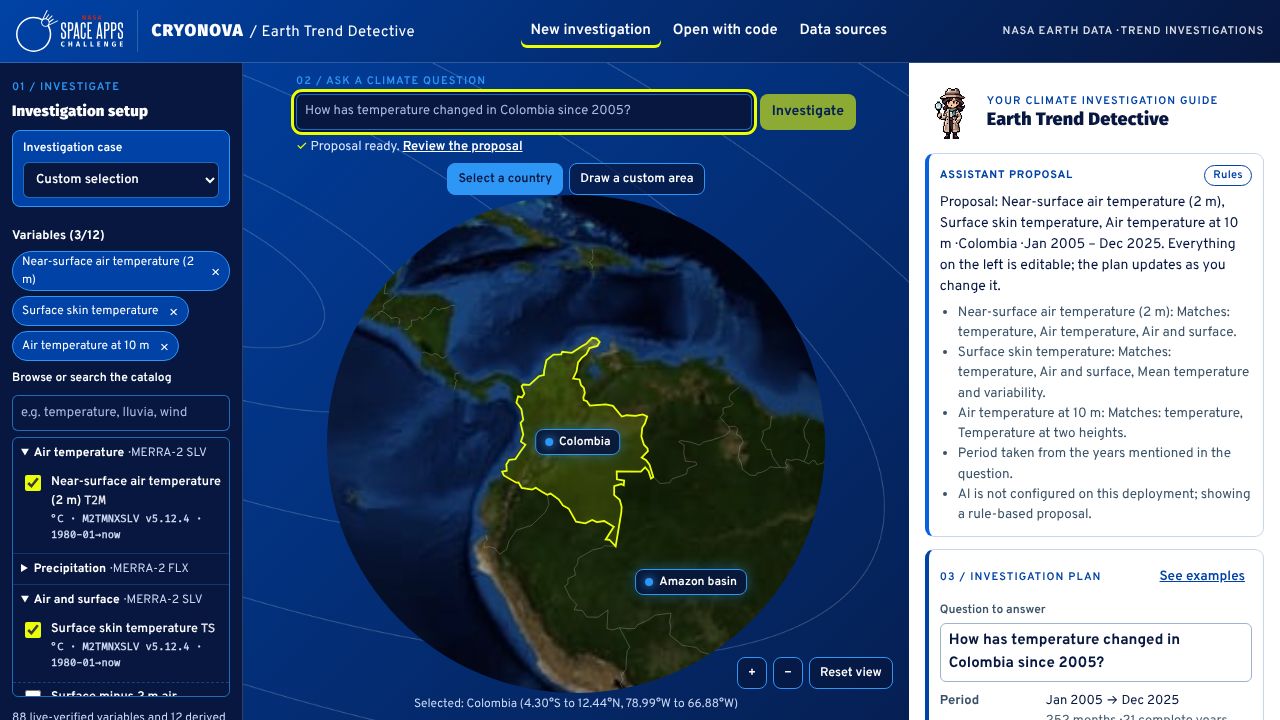
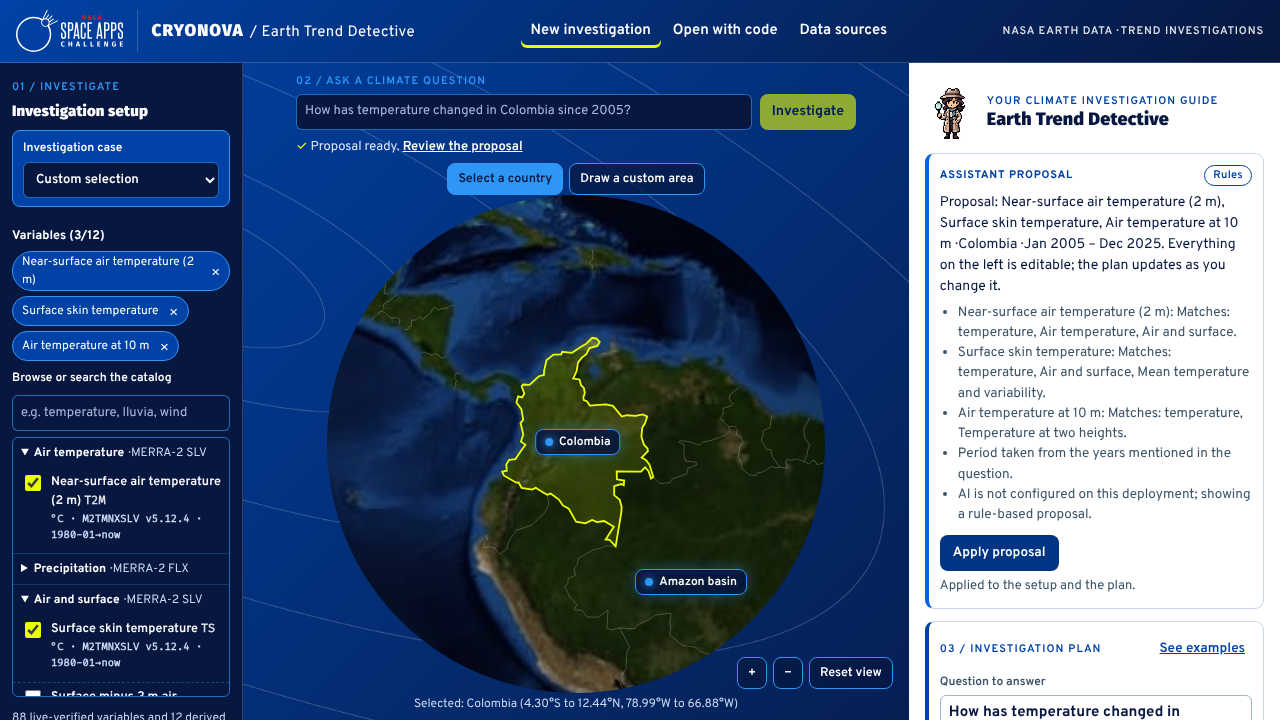
test(e2e): proposals apply only on request, user dates are kept
The assistant tests press "Apply proposal" before checking the setup.
The card test checks that nothing changes before applying (no location,
no plan) and that applying fills it. A new test loads the example
(Jan 2005 - Dec 2024), asks "What about since 2015?" and checks the
period stays until the proposal is applied, then becomes Jan 2015.

Claude-Session: https://claude.ai/code/session_01MdmBAKE8M2SCmHZVLXGeNV

Changed region(s): [[0.7188, 0.7333, 0.9688, 1.0], [0.2188, 0.1222, 0.5938, 0.2139], [0.9062, 0.7944, 0.9688, 0.825]]

diff --git a/tests/e2e/workspace.spec.ts b/tests/e2e/workspace.spec.ts
@@ -114,6 +114,7 @@ test("the assistant answers in Spanish and fills the setup as an editable propos
   await page.getByTestId("assistant-input").fill("¿Ha cambiado la precipitación en Perú desde 2001?");
   await page.getByTestId("investigate-button").click();
   await expect(page.getByTestId("assistant-proposal")).toContainText(/Propuesta:/, { timeout: 60_000 });
+  await page.getByTestId("apply-proposal").click();
   await expect(page.getByText("Selected: Peru", { exact: false })).toBeVisible();
   await expect(page.getByTestId("plan")).toBeVisible();
   await expect(page.getByTestId("plan-period")).toContainText("Jan 2001");
@@ -124,7 +125,26 @@ test("old links redirect: /investigate?q= asks the assistant on the workspace", 
   await page.goto(`/investigate?q=${encodeURIComponent("Is it getting warmer in Chile since 2001?")}`);
   await expect(page).toHaveURL(/\/\?q=/);
   await expect(page.getByTestId("assistant-proposal")).toContainText(/Proposal:/, { timeout: 60_000 });
+  await page.getByTestId("apply-proposal").click();
   await expect(page.getByText("Selected: Chile", { exact: false })).toBeVisible();
+});
+
+test("a proposal never overwrites the dates in the setup unless it is applied", async ({ page }) => {
+  await page.goto("/");
+  await page.getByTestId("use-example").click();
+  const period = page.getByTestId("plan-period");
+  await expect(period).toContainText("Jan 2005");
+
+  await page.getByTestId("assistant-input").fill("What about since 2015?");
+  await page.getByTestId("assistant-input").press("Enter");
+  await expect(page.getByTestId("assistant-proposal")).toContainText("Jan 2015", { timeout: 60_000 });
+  // Shown, not applied: the period in the setup and the plan stays as it was.
+  await expect(period).toContainText("Jan 2005");
+  await expect(period).not.toContainText("Jan 2015");
+
+  await page.getByTestId("apply-proposal").click();
+  await expect(period).toContainText("Jan 2015");
+  await expect(page.getByTestId("plan-location")).toContainText("Colombia");
 });
 
 test("the proposal is a readable card in the right panel; the center keeps the question and the globe", async ({ page }) => {
@@ -146,6 +166,14 @@ test("the proposal is a readable card in the right panel; the center keeps the q
   await expect(center).not.toContainText("Proposal:");
   await expect(center.getByRole("link", { name: "Review the proposal" })).toHaveAttribute("href", "#assistant-proposal");
   await expect(page.getByTestId("assistant-input")).toHaveValue("");
+
+  // Nothing changes until the proposal is applied.
+  await expect(page.getByTestId("proposal-status")).toHaveText("Nothing on the left changes until you apply it.");
+  await expect(page.getByText("No location selected yet.")).toBeVisible();
+  await expect(page.getByTestId("plan")).toHaveCount(0);
+  await page.getByTestId("apply-proposal").click();
+  await expect(page.getByTestId("proposal-status")).toHaveText("Applied to the setup and the plan.");
+  await expect(page.getByText("Selected: Colombia", { exact: false })).toBeVisible();
   await expect(page.getByTestId("plan")).toBeVisible();
   await expectAccessible(page);
   await card.scrollIntoViewIfNeeded();
@@ -205,7 +233,8 @@ test("long questions: the question grows to four lines, Shift+Enter adds a line,
   await expect(input).toHaveValue("");
   expect(await input.evaluate(visibleLines)).toBeCloseTo(initial, 1);
 
-  // The plan's question shows the whole text, without an inner scrollbar.
+  // Once applied, the plan's question shows the whole text, without an inner scrollbar.
+  await page.getByTestId("apply-proposal").click();
   const planQuestion = page.getByTestId("plan-question");
   await expect(planQuestion).toHaveValue(LONG_QUESTION);
   expect(await planQuestion.evaluate((el) => el.scrollHeight <= el.clientHeight + 1)).toBe(true);
